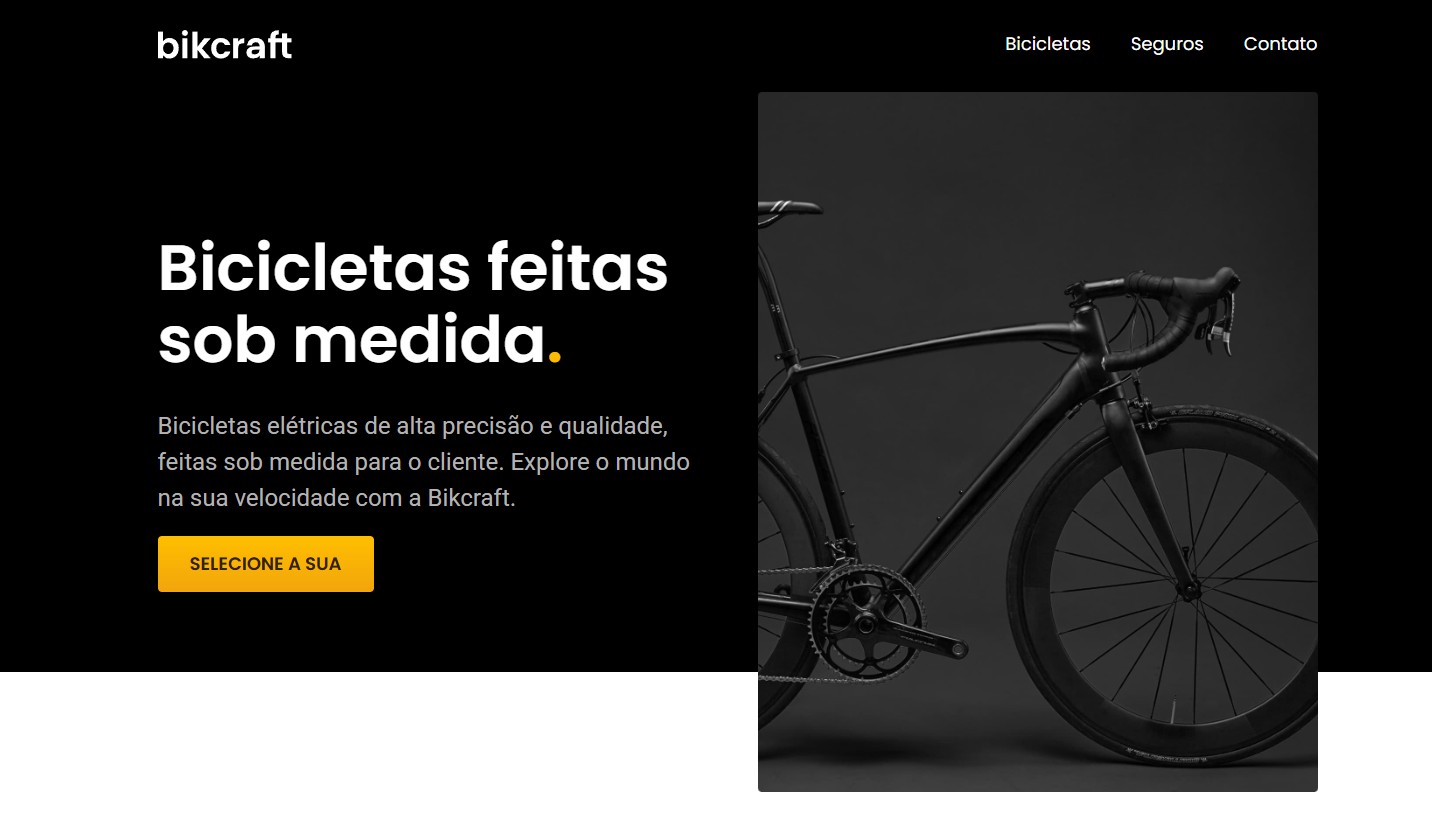
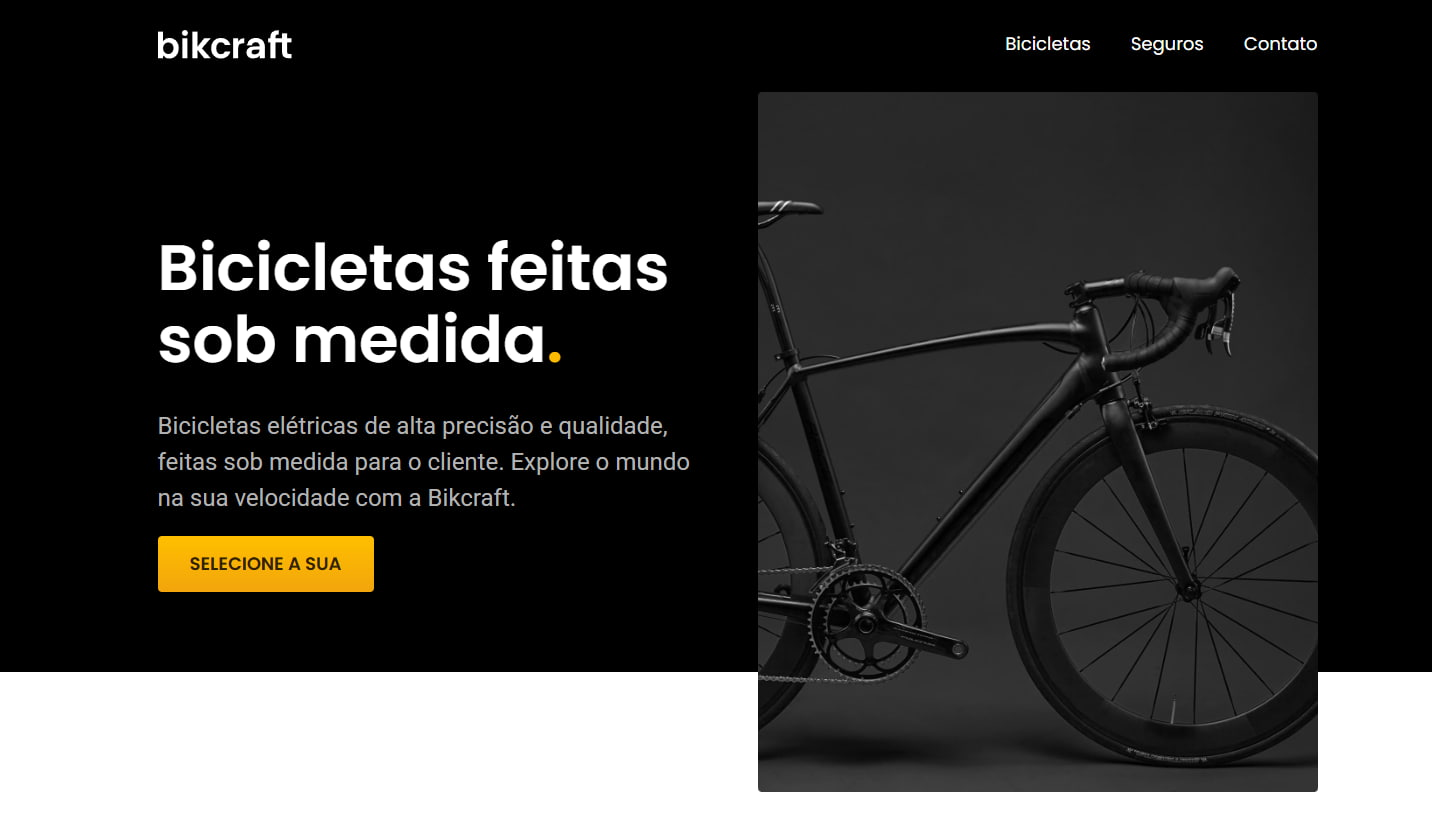
renderização de imagens

diff --git a/index.html b/index.html
@@ -54,7 +54,7 @@
 
                 <figure class="coluna-perfil">
                     <div class="perfil-imagem-wrapper">
-                        <img src="./img/Bianca-br.png" alt="Foto da Bianca" class="foto-perfil">
+                        <img src="./img/Bianca-br.png" alt="Foto de perfil da Bianca" class="foto-perfil" width="1056" height="992">
                         <p class="status-transicao">Em transição de carreira</p>
                     </div>
                     <span class="localizacao">Barueri, SP 📍</span>
